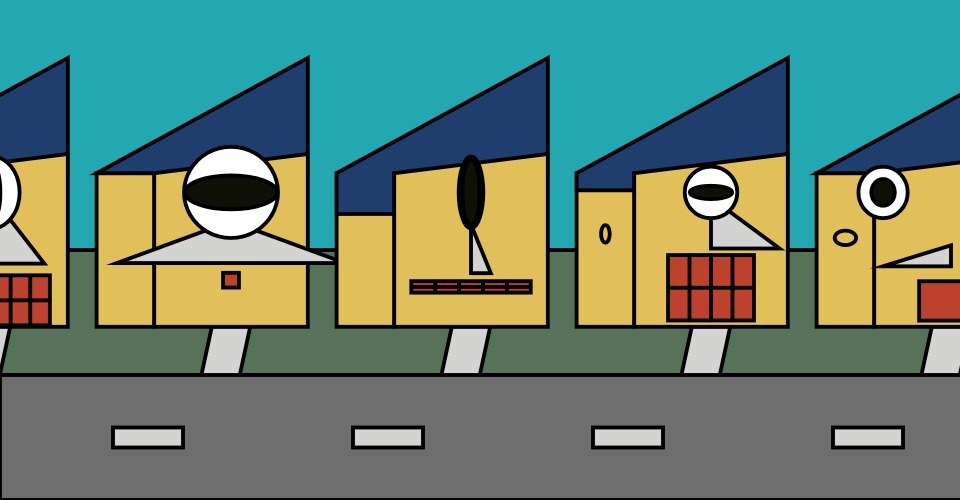
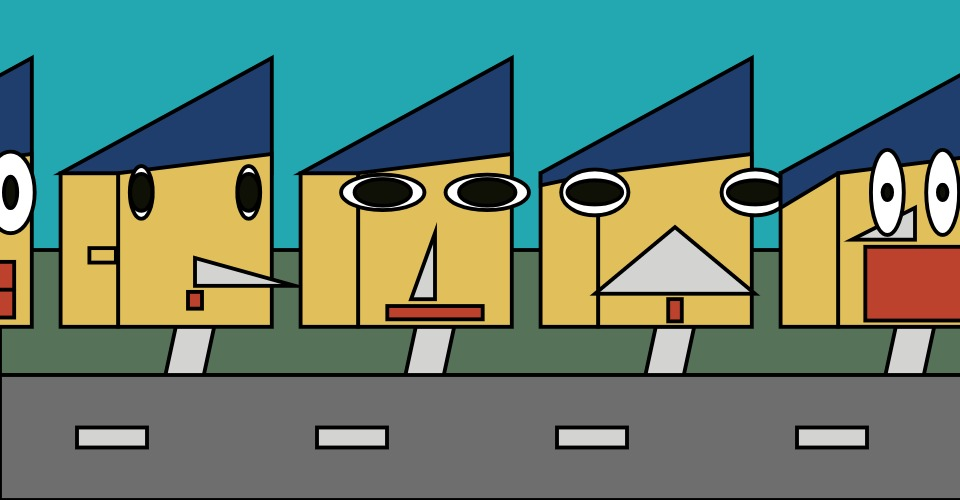
Made the ear unable to stick out the bottom

diff --git a/face_code.js b/face_code.js
@@ -162,6 +162,10 @@ class Face{
     fill(this.skinColour);
     rect(-this.headWidth/2-this.earWidth,-this.headHeight/2,this.earWidth,this.headHeight);
     fill(this.innerEarCol);
+    if(this.earY+this.innerEarHeight/2>this.headHeight/4){
+      this.earShape="none";
+      return;
+    }
     if(this.earShape=="circle"){
       ellipseMode(CENTER);
       ellipse(-this.headWidth/2-this.earWidth/2,this.earY,this.innerEarWidth,this.innerEarHeight);

diff --git a/README.md b/README.md
@@ -1,1 +1,1 @@
-I have changed the road colours which look way better although I am wondering thats too much light grey now. I have also updated the random function used which improves the performance. 
+made the ear unable to stick out the bottom. 
